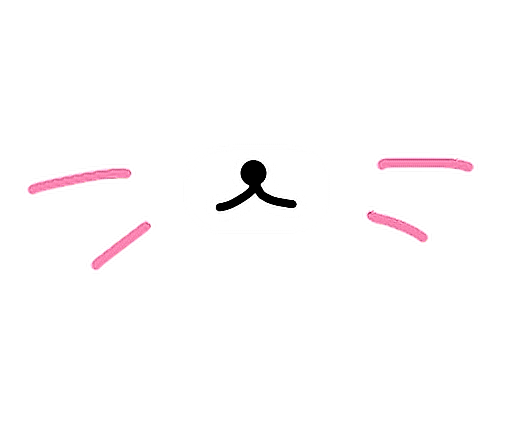
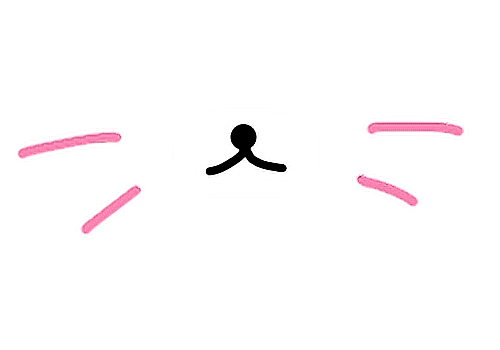
save

diff --git a/edit.css b/edit.css
@@ -24,12 +24,14 @@ body
     text-align: center;
 }
 
-#images
+/* #images
 {
+    width: 500;
+    height: 350;
     display: grid;
     grid-template-columns: repeat(3, 1fr);
     grid-gap: 10px;
-}
+} */
 
 #video
 {
@@ -40,23 +42,3 @@ body
 {
     max-width: 960px;
 }
-
-/* #overlay
-{
-    position:absolute;
-    width:160px;
-    min-height:40px;
-    background-color:#dadada;
-    z-index:300000;
-    bottom:10px;
-    left:10px;
-    text-align:center;
-} */
-
-/* #img-overlay
-{
-    position: absolute;
-    left: 0;
-    width: 640;
-    height: 480;
-} */

diff --git a/editpage.php b/editpage.php
@@ -18,13 +18,12 @@ if (!isset($_SESSION["logged_in"]))
 <div class="header">
    <h1> CAMAGRU </h1>
 </div>
-<div class="top" style="position:relative;">
-<video id="video" width="640" height="480" muted="muted" autoplay></video>
-<img src="" alt="" id="img-overlay" style="position:absolute; left: 0;width: 640;height: 480;">
+<div style="position:relative;">
+<video id="video" width="500" height="350" muted="muted" autoplay></video>
+<img src="#" alt="" id="img-overlay" style="position:absolute; left: 0;width: 500;height: 350;">
 <select id="stickers">
 <option id="overlay" value="stickers/none.png">normal</option>
 <option id="overlay" value="stickers/cutecat.png">cutecat</option>
-<option id="overlay" value="stickers/bear.png">bear</option>
 <option id="overlay" value="stickers/dogears.png">dogears</option>
 <option id="overlay" value="stickers/hellokitty.png">hellokitty</option>
 <option id="overlay" value="stickers/lovehearts.png">lovehearts</option>
@@ -32,15 +31,10 @@ if (!isset($_SESSION["logged_in"]))
 </select>
 <button id="snap">Snap Photo</button>
 <button id="clear">Clear</button>
-<!-- <form name="myform" action="editpage.php" method="post" id="myform">
-      <input type="submit" name="submit" value="Test!" />
-      <input type="hidden" name="hidden1" id="hidden1" />
-      <input type="hidden" name="hidden2" id="hidden2" />
-   </form> -->
-<canvas id="canvas" width="640" height="480"></canvas>
+<canvas id="canvas" width="500" height="350"></canvas>
 </div>
 <div class="bottom">
-    <div id="photos" id="images"></div>
+    <div id="photos"></div>
 <form method="post" action="editpage.php" id="myform">
       <input type="hidden" name="hidden1" id="hidden1" />
       <input type="hidden" name="hidden2" id="hidden2" />
@@ -84,7 +78,7 @@ if(navigator.mediaDevices && navigator.mediaDevices.getUserMedia)
     });
      function takePicture()
      {
-         context.drawImage(video, 0, 0, 640, 480);
+         context.drawImage(video, 0, 0, 500, 350);
          var imgurl = canvas.toDataURL('image/png');
          const image = document.createElement('img');
          image.setAttribute('src', imgurl);
@@ -93,10 +87,6 @@ if(navigator.mediaDevices && navigator.mediaDevices.getUserMedia)
          document.getElementById("hidden1").value = imgurl.split(',')[1];
          document.getElementById("hidden2").value = sticker;
     }
-    save.addEventListener('click', function(e)
-    {
-        // echo "nothing to save";
-    });
 }
 </script>
 </html>
@@ -110,27 +100,38 @@ require_once("config/setup.php");
 $db->query("USE ".$dbname);
 if (isset($_POST['hidden2']) && isset($_POST['hidden1']))
 {
+    $sticker = $_POST['hidden2'];
     $url = $_POST['hidden1'];
     $path = 'uploads/';
     $path .= $url;
     $path .= '.png';
     $filename = substr($url, 0, 10);
     $filename .= '.png';
-    file_put_contents('uploads/'.$filename, base64_decode($_POST['hidden1']));
-    $email = $_SESSION['email'];
-    $query = "INSERT into photos (file_name, uploaded_on, owner_email) VALUES (:name, NOW(), :email)";
-    $stmt = $db->prepare( $query );
-    $stmt->bindParam(':name', $filename);
-    $stmt->bindParam(':email', $email);
-    $insert = $stmt->execute();
+    if ($sticker != 'none')
+    {
+        file_put_contents('uploads/'.$filename, base64_decode($_POST['hidden1']));
+        $baseimg = imagecreatefrompng('uploads/'.$filename);
+        // echo $sticker;
+        $stickeroverlay = imagecreatefrompng($sticker);
+        imagecopy($baseimg, $stickeroverlay, 0, 0, 0, 0, 500, 350);
+        imagepng($baseimg, 'uploads/'.$filename);
+        $email = $_SESSION['email'];
+        $query = "INSERT into photos (file_name, uploaded_on, owner_email) VALUES (:name, NOW(), :email)";
+        $stmt = $db->prepare( $query );
+        $stmt->bindParam(':name', $filename);
+        $stmt->bindParam(':email', $email);
+        $insert = $stmt->execute();
+    }
+    else
+    {
+        file_put_contents('uploads/'.$filename, base64_decode($_POST['hidden1']));
+        $email = $_SESSION['email'];
+        $query = "INSERT into photos (file_name, uploaded_on, owner_email) VALUES (:name, NOW(), :email)";
+        $stmt = $db->prepare( $query );
+        $stmt->bindParam(':name', $filename);
+        $stmt->bindParam(':email', $email);
+        $insert = $stmt->execute();
+    }
+    
  }
-?>
-<?php
-    // $img1 = imagecreatefrompng("test.png");
-    // $img2 = imagecreatefrompng($_POST['hidden2']);
-    // imagecopy($img1, $img2, 0, 0, 0, 0, 640, 480);
-    // file_put_contents('test1.jpg', $img1);
-    // header('Content-Type: image/jpeg');
-    // imagegif($img1);
-    // imagejpeg($img1);
 ?>

diff --git a/config/database.php b/config/database.php
@@ -10,7 +10,7 @@ $db = null;
 try{
 	$db = new PDO("mysql:host=$host", $username, $password);
 	$db->setAttribute(PDO::ATTR_ERRMODE, PDO::ERRMODE_EXCEPTION);
-	$sql = "CREATE DATABASE IF NOT EXISTS db_smarwise";
+	$sql = "CREATE DATABASE IF NOT EXISTS db_smarwise DEFAULT CHARACTER SET utf8 COLLATE utf8_general_ci";
 	$db->exec($sql);
 	
 }

diff --git a/config/setup.php b/config/setup.php
@@ -36,4 +36,5 @@ $db->query("USE ".$dbname);
 		comment varchar(255) NOT NULL,
 		photo_id int NOT NULL)";
 	$table = $db->exec($statement);
+	$db->query('ALTER TABLE comments CONVERT TO CHARACTER SET utf8mb4 COLLATE utf8mb4_bin');
 ?>
